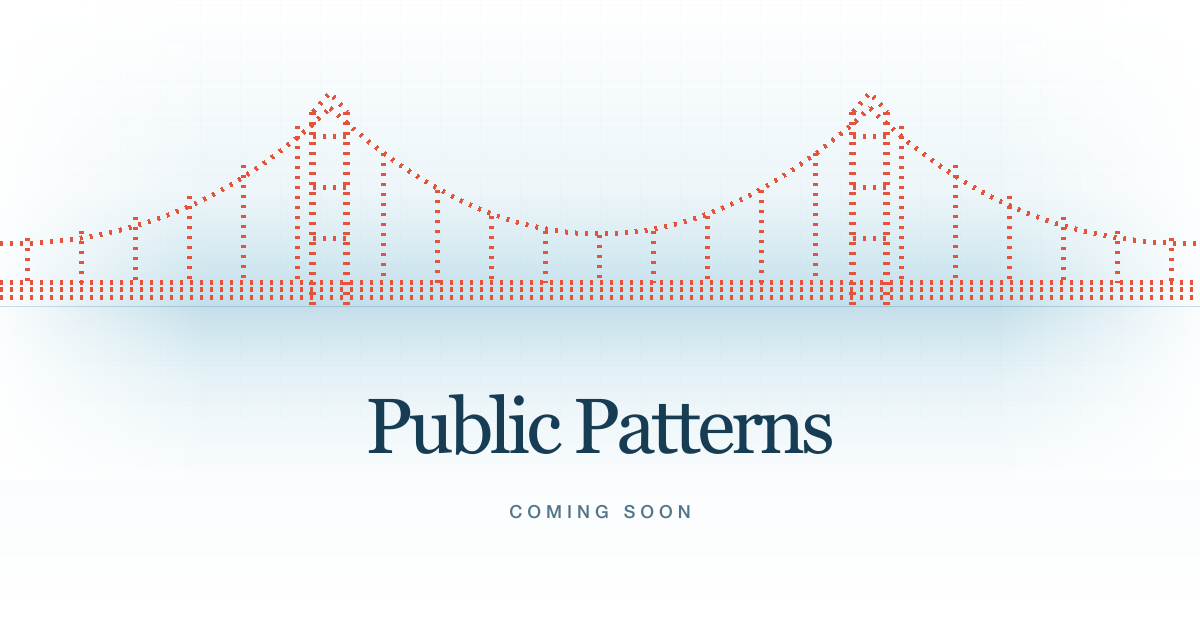
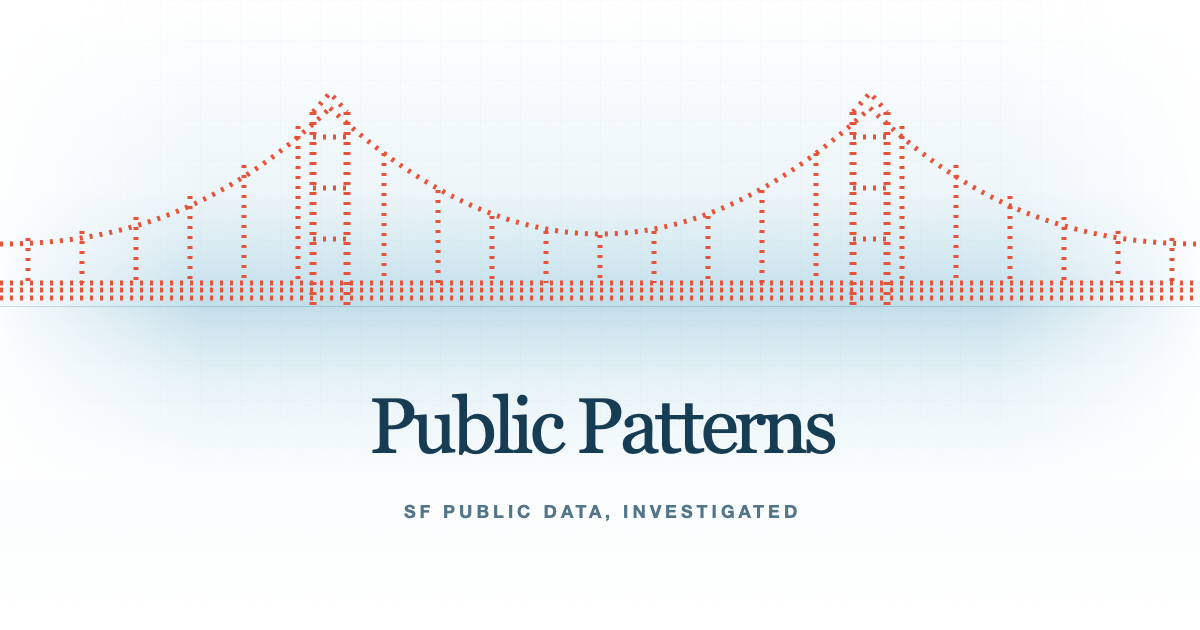
Refresh social preview (#22)

Changed region(s): [[0.3083, 0.6032, 0.7092, 0.7238], [0.3392, 0.7841, 0.6783, 0.8444], [0.7092, 0.1508, 0.74, 0.181]]

diff --git a/apps/web/index.html b/apps/web/index.html
@@ -21,18 +21,18 @@
     <meta property="og:locale" content="en_US" />
     <meta
       property="og:image"
-      content="https://publicpatterns.com/og-image.png"
+      content="https://publicpatterns.com/og-image.png?v=2"
     />
     <meta
       property="og:image:secure_url"
-      content="https://publicpatterns.com/og-image.png"
+      content="https://publicpatterns.com/og-image.png?v=2"
     />
     <meta property="og:image:type" content="image/png" />
     <meta property="og:image:width" content="1200" />
     <meta property="og:image:height" content="630" />
     <meta
       property="og:image:alt"
-      content="A pixel-art Golden Gate Bridge above the Public Patterns name."
+      content="A pixel-art Golden Gate Bridge above Public Patterns and the words SF public data, investigated."
     />
     <meta name="twitter:card" content="summary_large_image" />
     <meta name="twitter:creator" content="@Ezra_SF" />
@@ -43,11 +43,11 @@
     />
     <meta
       name="twitter:image"
-      content="https://publicpatterns.com/og-image.png"
+      content="https://publicpatterns.com/og-image.png?v=2"
     />
     <meta
       name="twitter:image:alt"
-      content="A pixel-art Golden Gate Bridge above the Public Patterns name."
+      content="A pixel-art Golden Gate Bridge above Public Patterns and the words SF public data, investigated."
     />
     <title>Public Patterns</title>
   </head>
